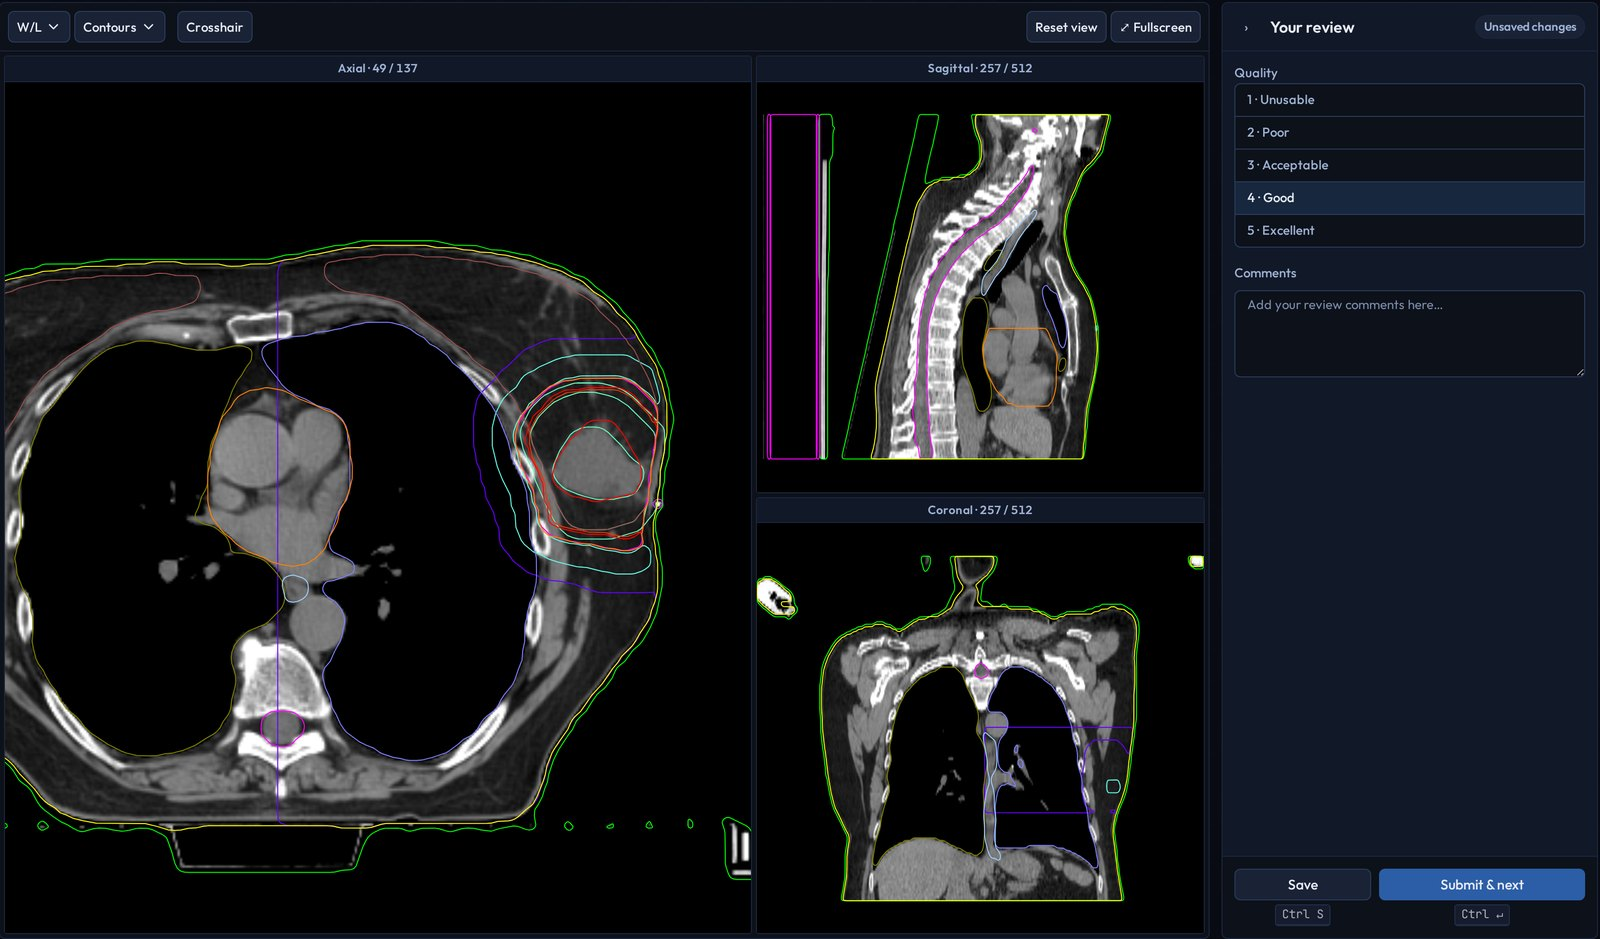
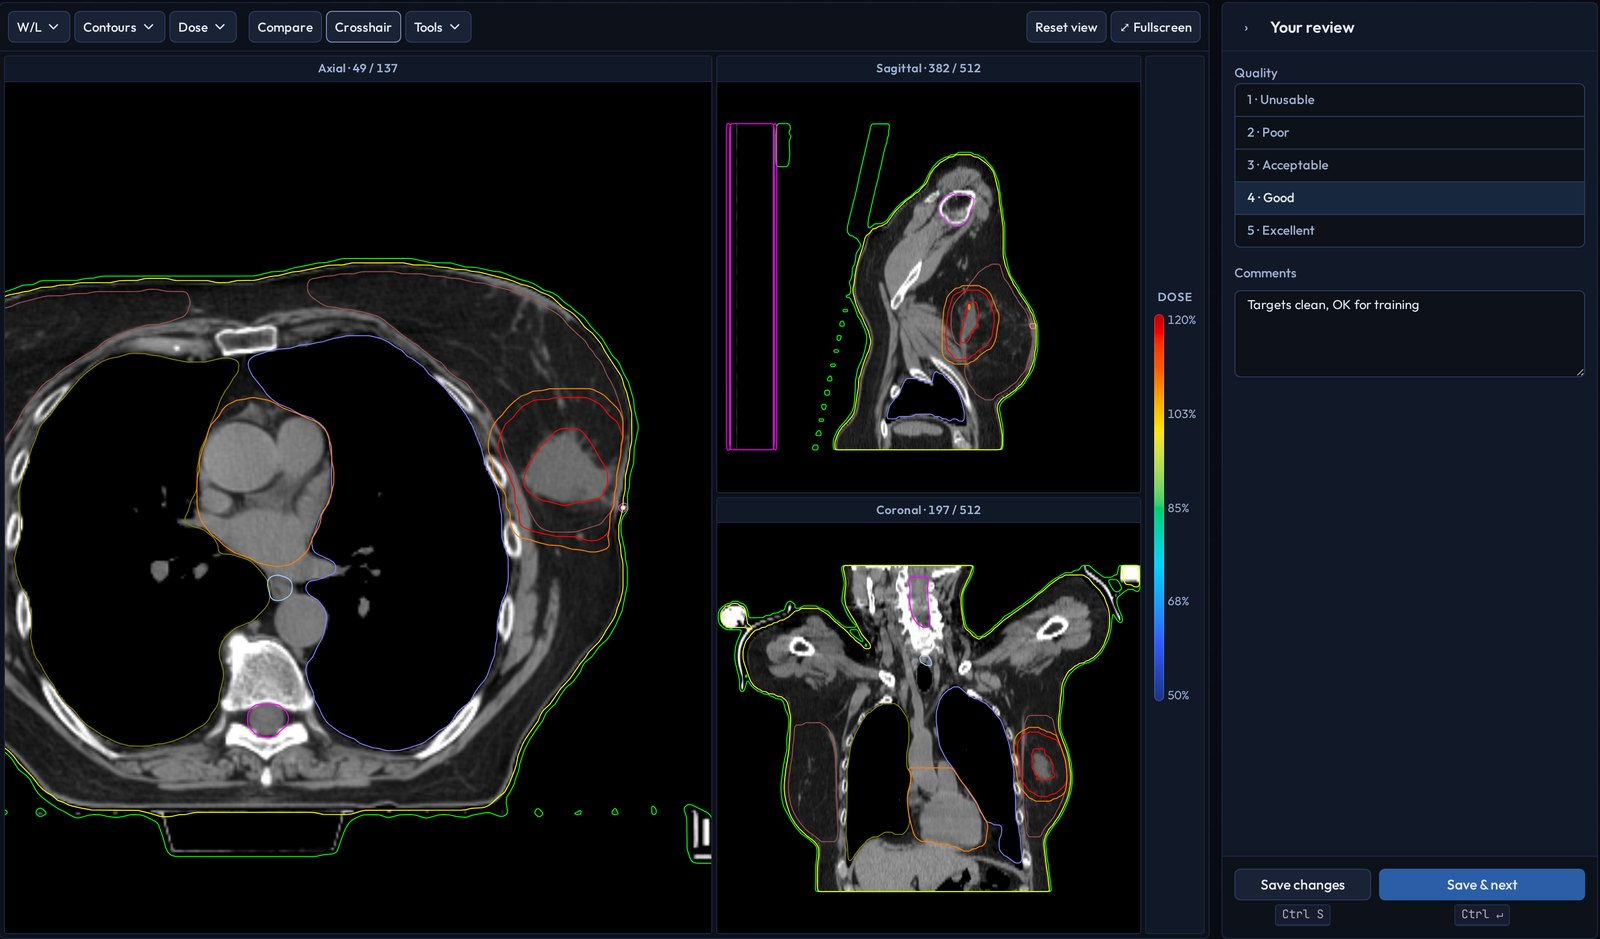
fix(data-engine): match the study's numbers to the submitted manuscript and show Dice only
Per the PI: 'Tested in a blinded study', 75 blinded reviews, preference 64% (by case 12 vs 8, p = 0.50), acceptability 88% vs 80% (p = 0.73), quality scores per target, and the Practical Radiation Oncology manuscript citation. Hausdorff values are gone from the reveal table and the Validate screenshot; the stage screenshots are retaken with the side views on the target.

diff --git a/data-engine/index.html b/data-engine/index.html
@@ -80,11 +80,11 @@
 
           <table class="dice" hidden>
             <caption>Agreement for this case, across the whole 3D volume</caption>
-            <thead><tr><th scope="col">Target</th><th scope="col">Dice</th><th scope="col">Hausdorff</th></tr></thead>
+            <thead><tr><th scope="col">Target</th><th scope="col">Dice</th></tr></thead>
             <tbody>
-              <tr><th scope="row">GTV</th><td>0.91</td><td>0.61 cm</td></tr>
-              <tr><th scope="row">CTV</th><td>0.87</td><td>0.99 cm</td></tr>
-              <tr><th scope="row">PTV</th><td>0.86</td><td>0.98 cm</td></tr>
+              <tr><th scope="row">GTV</th><td>0.91</td></tr>
+              <tr><th scope="row">CTV</th><td>0.87</td></tr>
+              <tr><th scope="row">PTV</th><td>0.86</td></tr>
             </tbody>
           </table>
 
@@ -119,7 +119,7 @@
             <h3>Validate</h3>
             <p>Blinded or open A/B review of AI against physician contours, as above. Structure names that differ between studies, like "(P) GTV" and "(P) GTV_APBI", are matched to the same target automatically.</p>
           </div>
-          <img class="shot" src="img/stage-validate.jpg" alt="An open A/B review: the structure list groups Ground Truth and AI targets, and the axial view shows both with Dice and Hausdorff for each pair in its corner" width="1600" height="1464" loading="lazy">
+          <img class="shot" src="img/stage-validate.jpg" alt="An open A/B review: the structure list groups Ground Truth and AI targets, and the axial view shows both with the Dice score for each pair in its corner" width="1600" height="1464" loading="lazy">
         </li>
         <li class="stop">
           <div class="prose">
@@ -136,16 +136,16 @@
   <section aria-labelledby="study">
     <div class="wrap">
       <div class="section-head">
-        <h2 id="study">Already used for a real blinded study</h2>
-        <p>An IRB-approved feasibility study ran entirely in the portal's blinded workflow. Three breast radiation oncologists reviewed AI and physician-drawn partial-breast targets for 25 consecutive cases the model had never seen, for 225 paired assessments in all.</p>
+        <h2 id="study">Tested in a blinded study</h2>
+        <p>An IRB-approved feasibility study ran entirely in the portal's blinded workflow. Three breast radiation oncologists reviewed AI and physician-drawn partial-breast targets for 25 consecutive cases the model had never seen: 75 blinded reviews in all, each rating the GTV, CTV and PTV.</p>
       </div>
       <ul class="results">
-        <li><span class="figure">64%</span><span>of the 45 reviews that stated a preference chose the AI contours (29 against 16, p = 0.04).</span></li>
-        <li><span class="figure">85%</span><span>of reviews rated the AI contours clinically acceptable on all three targets, against 77% for the physician contours.</span></li>
-        <li><span class="figure">p ≥ 0.40</span><span>no significant difference in mean quality scores between AI and physician contours for GTV, CTV or PTV.</span></li>
-        <li><span class="figure">0.65</span><span>inter-rater reliability (Gwet's AC1), which is substantial agreement between the three reviewers.</span></li>
+        <li><span class="figure">64%</span><span>of reviews with a stated preference favored the AI contours (29 of 45). By case, 12 against 8 (p = 0.50). The other 30 of the 75 reviews stated no preference.</span></li>
+        <li><span class="figure">88%</span><span>of AI contour sets were acceptable on all three targets, against 80% physician-drawn (by case, 2 of 3 reviewers; p = 0.73).</span></li>
+        <li><span class="figure">p ≥ 0.40</span><span>No significant difference in quality scores, AI vs physician: GTV 2.63 vs 2.60, CTV 2.77 vs 2.77, PTV 2.75 vs 2.64.</span></li>
       </ul>
       <p class="cite">Berlin E, Byrd B, Molina N, Philbrook S, Kassick M, Freedman GM, Taunk NK, Green WR, McBeth R. A Blinded Comparison of Artificial Intelligence-Generated versus Physician-Drawn Target Contours for Partial Breast Irradiation. ASTRO 2026. <a href="https://poster.astro.org/astro/2026/2026-astros-68th-annual-meeting/4212074/eva.berlin.a.blinded.comparison.of.artificial.intelligence-generated.vs.html">View the poster</a></p>
+      <p class="cite">Full manuscript under review: Berlin EE, … McBeth R. Blinded Comparison of AI-Generated Versus Physician-Drawn Target Contours for Partial Breast Irradiation. Practical Radiation Oncology, AI in Radiotherapy special issue (submitted Oct 2026).</p>
     </div>
   </section>
 
@@ -155,7 +155,7 @@
         <h2 id="built">How we built it</h2>
       </div>
       <div class="prose">
-        <p>Python and Flask on the server, a hand-written canvas viewer in the browser, PostgreSQL for reviews and an Orthanc DICOM server for studies, all packaged with Docker and uv so it starts the same way on any machine. Dice and Hausdorff come from dcm-utils, the DICOM geometry package our lab shares across projects.</p>
+        <p>Python and Flask on the server, a hand-written canvas viewer in the browser, PostgreSQL for reviews and an Orthanc DICOM server for studies, all packaged with Docker and uv so it starts the same way on any machine. Overlap metrics come from dcm-utils, the DICOM geometry package our lab shares across projects.</p>
         <p>It was built largely with Claude Code. We brainstorm a design, write a plan, hand the tasks to subagents and review every change before it merges.</p>
       </div>
     </div>

diff --git a/assets/site.css b/assets/site.css
@@ -215,3 +215,5 @@ footer { border-top: 1px solid var(--teal); padding: 32px 0 48px; color: var(--m
 .chart { margin: 0; }
 .chart img { background: #fff; padding: 12px; border-radius: 4px; }
 .chart figcaption { margin-top: 10px; color: var(--mist); font-size: var(--step--1); max-width: 52ch; }
+
+.cite + .cite { margin-top: 10px; }
